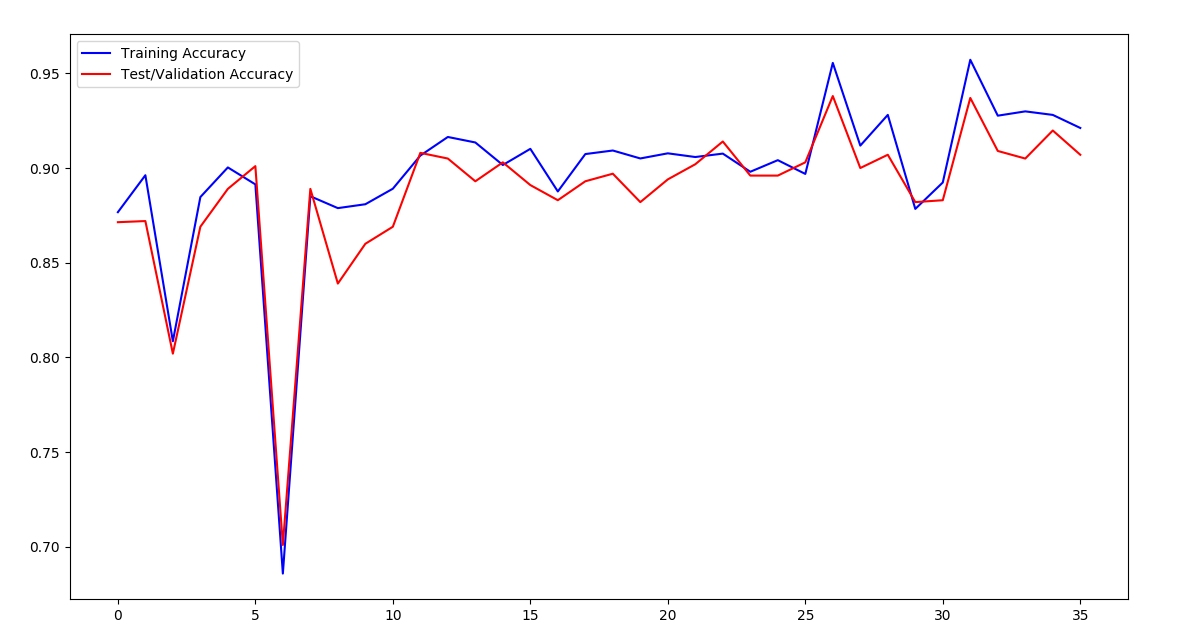
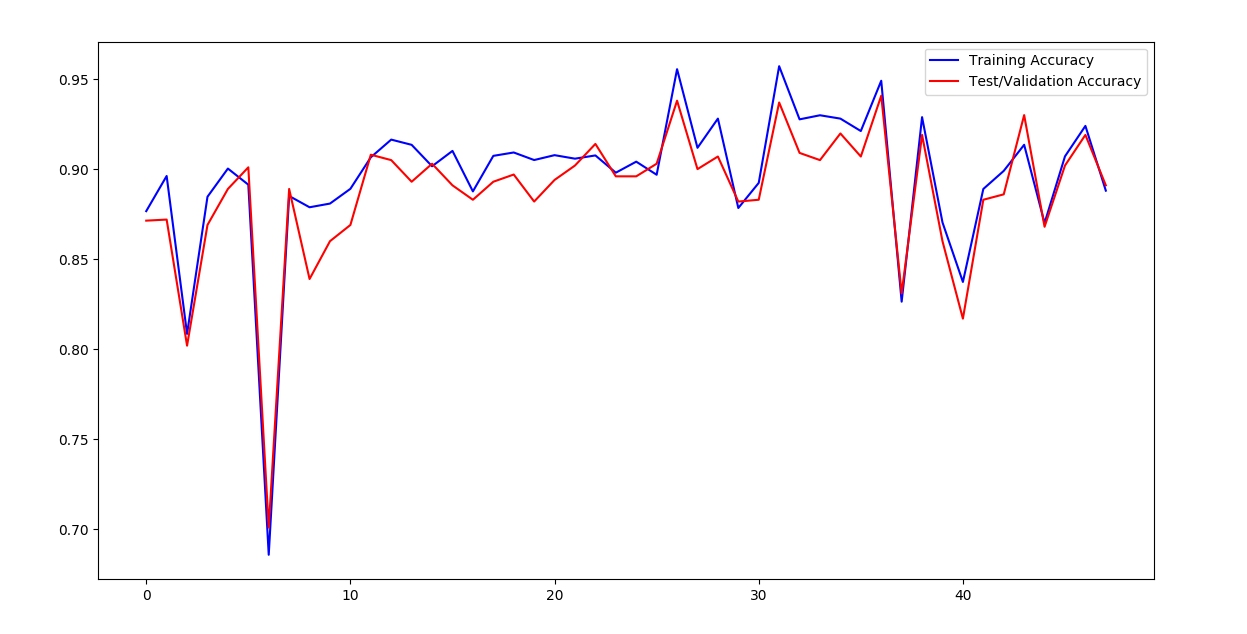
Use Netserov Momentum instead of standard momentum
Use `Netserov` momentum which uses look-ahead gradient to perform weight
update instead of just current gradient.

diff --git a/ann.py b/ann.py
@@ -62,20 +62,33 @@ class ANN:
         n = len(X_train)
         costs = []
 
+        mu = self.hyperparams.momentum
+        lr = self.hyperparams.learning_rate
+
         for i in range(self.epoch):
             Z, cache_y, cache_z = self.feed_forward(X_train)
             cache_z = [X_train] + cache_z
             grad_synapses, grad_biases, cost = self.backpropagate(Y_train, cache_y, cache_z)
 
-            # dw = - eta * gradient_w - momentum * previous_dw
+            # dw = - lr * gradient_w + mu * previous_dw => standard momentum
             # w += dw
+            # Also, v_prev = v
+            # v = mu * v - lr * grad
+            # w += -mu * v_prev + (1+mu) * v => Neterov Momentum => mostly used
+            #
             for i, synapse in enumerate(self.synapses):
-                self.delta_synapses[i] = -1/n * self.hyperparams.learning_rate * grad_synapses[i] \
-                    + self.hyperparams.momentum * self.delta_synapses[i]
-                self.delta_biases[i] = -1/n * self.hyperparams.learning_rate * np.sum(grad_biases[i], axis=0) \
-                     + self.hyperparams.momentum * self.delta_biases[i]
-                self.synapses[i] = synapse + self.delta_synapses[i]
-                self.biases[i] = self.biases[i] + self.delta_biases[i]
+                delta_synapses_prev = self.delta_synapses[i][:]
+                delta_biases_prev = self.delta_biases[i][:]
+                self.delta_synapses[i] = -1/n * lr * grad_synapses[i] \
+                    + mu * self.delta_synapses[i]
+                self.delta_biases[i] = -1/n * lr * np.sum(grad_biases[i], axis=0) \
+                     + mu * self.delta_biases[i]
+                self.synapses[i] = synapse \
+                            + (1 + mu) * self.delta_synapses[i] \
+                            - mu * delta_synapses_prev
+                self.biases[i] = self.biases[i] \
+                            + (1 + mu) * self.delta_biases[i] \
+                            - mu * delta_biases_prev
             costs.append(cost)
 
         return np.mean(costs)

diff --git a/kaggle.py b/kaggle.py
@@ -60,9 +60,9 @@ def run():
 
 
     # lr, m, lr-decay
-    hyperparams = HyperParameters(0.03, 0.6, 0.001)
-    topology = [X_train[0].shape[0], 100, 50, 25, 10]
-    batch_size = 75
+    hyperparams = HyperParameters(0.003, 0.9, 0.001)
+    topology = [X_train[0].shape[0], 120, 50, 10]
+    batch_size = 100
     epoch = 25
     model, costs = build_model(topology, config.SIGMOID_SOFTMAX_CROSSENTROPY,
                                hyperparams, batch_size,

diff --git a/ocr.py b/ocr.py
@@ -62,9 +62,9 @@ def main():
     Y_test = one_hot_encoder(Y_test)
 
     # lr, m, lr-decay
-    hyperparams = HyperParameters(0.05, 0.4, 0.001)
+    hyperparams = HyperParameters(0.002, 0.9, 0.001)
     topology = [X_train[0].shape[0], 100, 50, 10]
-    batch_size = 100
+    batch_size = 75
     epoch = 25
     model, costs = build_model(topology, config.SIGMOID_SOFTMAX_CROSSENTROPY,
                                hyperparams, batch_size, epoch,
